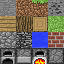
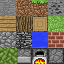
fixed trees, added tree textures

Changed region(s): [[0.0, 0.75, 0.2812, 1.0]]

diff --git a/Assets/Chunk.cs b/Assets/Chunk.cs
@@ -11,7 +11,7 @@ public class Chunk
     MeshFilter meshFilter;
     GameObject chunkObject;
     MeshCollider meshCollider;
-    int treeHeight;
+    int treeHeight = 0;
 
     int vertexIndex = 0;
     List<Vector3> vertices = new List<Vector3>();
@@ -19,7 +19,7 @@ public class Chunk
     List<Vector2> uvs = new List<Vector2>();
 
     public int[,,] blocksInChunk = new int[VoxelData.chunkWidth, VoxelData.chunkHeight, VoxelData.chunkWidth];
-
+    int randomNum;
     World world;
 
     private bool _isActive;
@@ -61,6 +61,7 @@ public class Chunk
     void AddBlocksToChunk()
     {
 
+        
         for (int y = 0; y < VoxelData.chunkHeight; y++)
         {
             for (int x = 0; x < VoxelData.chunkWidth; x++)
@@ -76,74 +77,111 @@ public class Chunk
             }
         }
 
-        for (int y = 1; y < VoxelData.chunkHeight-1; y++)
+        for (int y = 1; y < VoxelData.chunkHeight - world.maxTreeSize; y++)
         {
-            for (int x = 1; x < VoxelData.chunkWidth-1; x++)
+            for (int x = 1; x < VoxelData.chunkWidth - 1; x++)
             {
-                for (int z = 1; z < VoxelData.chunkWidth-1; z++)
+                for (int z = 1; z < VoxelData.chunkWidth - 1; z++)
                 {
-                    
-                    if (blocksInChunk[x, y, z] == 6)
-                    {
-                        for (int k = 0; k < 3; k++)
-                        {
-                            for (int j = 0; j < 3; j++)
-                            {
-                                for (int l = 0; l < 3; l++)
-                                {
-                                    if (isBlockInChunk(x+k, y+j, z+l))
-                                    {
-                                        blocksInChunk[x + k, y + j, z + l] = 7;
-                                    }
-                                    if (isBlockInChunk(x - k, y - j, z - l))
-                                    {
-                                        blocksInChunk[x - k, y - j, z - l] = 7;
-                                    }
-                                    if(isBlockInChunk(x+k, y-j, z - l))
-                                    {
-                                        blocksInChunk[x + k, y - j, z - l] = 7;
-                                    }
-                                    if (isBlockInChunk(x + k, y + j, z - l))
-                                    {
-                                        blocksInChunk[x + k, y + j, z - l] = 7;
-                                    }
-                                    if (isBlockInChunk(x - k, y + j, z - l))
-                                    {
-                                        blocksInChunk[x - k, y + j, z - l] = 7;
-                                    }
-                                    if (isBlockInChunk(x - k, y - j, z + l))
-                                    {
-                                        blocksInChunk[x - k, y - j, z + l] = 7;
-                                    }
-                                    if (isBlockInChunk(x - k, y + j, z + l))
-                                    {
-                                        blocksInChunk[x - k, y + j, z + l] = 7;
-                                    }
-                                    if (isBlockInChunk(x + k, y - j, z + l))
-                                    {
-                                        blocksInChunk[x + k, y - j, z + l] = 7;
-                                    }
 
+                    if (blocksInChunk[x, y, z] == 6 && blocksInChunk[x,y+1,z] == 0)
+                    {
+
+                        randomNum = Random.Range(world.minTreeSize, world.maxTreeSize);
+                        if (treeHeight <= randomNum)
+                        {
+                            for (int i = 0; i < randomNum; i++)
+                            {
+                                if (blocksInChunk[x, y + i, z] == 0)
+                                {
+                                    blocksInChunk[x, y + i, z] = 6;
+                                }
+                                treeHeight++;
+                                
+                            }
+                            
+                        }
+                        
+
+                        if(blocksInChunk[x, y, z] == 6 && blocksInChunk[x,y-5,z] == 6 || blocksInChunk[x, y - 5, z] == 7)
+                        {
+                            int leafNum1 = Random.Range(2, 4);
+                            int leafNum2 = Random.Range(2, 4);
+                            int leafNum3 = Random.Range(2, 4);
+                            for (int k = 0; k < leafNum1; k++)
+                            {
+                                for (int j = 0; j < leafNum2; j++)
+                                {
+                                    for (int l = 0; l < leafNum3; l++)
+                                    {
+                                        if (isBlockInChunk(x + k, y + j, z + l))
+                                        {
+                                            blocksInChunk[x + k, y + j, z + l] = 7;
+                                        }
+                                        if (isBlockInChunk(x - k, y - j, z - l))
+                                        {
+                                            blocksInChunk[x - k, y - j, z - l] = 7;
+                                        }
+                                        if (isBlockInChunk(x + k, y - j, z - l))
+                                        {
+                                            blocksInChunk[x + k, y - j, z - l] = 7;
+                                        }
+                                        if (isBlockInChunk(x + k, y + j, z - l))
+                                        {
+                                            blocksInChunk[x + k, y + j, z - l] = 7;
+                                        }
+                                        if (isBlockInChunk(x - k, y + j, z - l))
+                                        {
+                                            blocksInChunk[x - k, y + j, z - l] = 7;
+                                        }
+                                        if (isBlockInChunk(x - k, y - j, z + l))
+                                        {
+                                            blocksInChunk[x - k, y - j, z + l] = 7;
+                                        }
+                                        if (isBlockInChunk(x - k, y + j, z + l))
+                                        {
+                                            blocksInChunk[x - k, y + j, z + l] = 7;
+                                        }
+                                        if (isBlockInChunk(x + k, y - j, z + l))
+                                        {
+                                            blocksInChunk[x + k, y - j, z + l] = 7;
+                                        }
+
+                                    }
                                 }
                             }
                         }
 
-                        for (int i = 0; i < world.maxTreeSize; i++)
-                        {
-                            if (blocksInChunk[x, y - i, z] == 0)
-                            {
-                                blocksInChunk[x, y - i, z] = 6;
-                            }
 
-                        }
+
+
+
 
 
                     }
                 }
             }
         }
+        treeHeight = 0;
 
-        
+        for (int y = 0; y < VoxelData.chunkHeight; y++)
+        {
+            for (int x = 0; x < VoxelData.chunkWidth; x++)
+            {
+                for (int z = 0; z < VoxelData.chunkWidth; z++)
+                {
+                    if (blocksInChunk[x, y, z] == 6)
+                    {
+                        if (blocksInChunk[x, y + 1, z] == 0)
+                        {
+                            blocksInChunk[x, y, z] = 0;
+                        }
+                    }
+                }
+            }
+        }
+
+
         areBlocksInChunk = true;
     }
 

diff --git a/Assets/World.cs b/Assets/World.cs
@@ -13,6 +13,7 @@ public class World : MonoBehaviour
     public float offset = 0;
     public float maxNoiseHeight = 24;
     public float minNoiseHeight = 24;
+    public int treeDensity = 20;
     public int maxTreeSize = 7;
     public int minTreeSize = 4;
     int noiseHeight;
@@ -21,7 +22,7 @@ public class World : MonoBehaviour
     public float caveScale;
     public float caveOffset;
     public float caveThreshold;
-    int randomNum = 0;
+    public int randomNum = 0;
     List<Vector3> treeCentre;
     Vector3 spawnPos;
     Chunk[,] chunks = new Chunk[VoxelData.WorldSizeInChunks, VoxelData.WorldSizeInChunks];
@@ -38,7 +39,9 @@ public class World : MonoBehaviour
     {
         Random.InitState(seed);
 
-        spawnPos = new Vector3(VoxelData.WorldSizeInChunks / 2, VoxelData.chunkHeight, VoxelData.WorldSizeInChunks / 2);
+        Vector3 spawnPos = new Vector3((VoxelData.WorldSizeInChunks / 2) * 16, 200, (VoxelData.WorldSizeInChunks / 2) * 16);
+        player.transform.position = spawnPos;
+        
         GenerateWorld();
         lastVisitedChunk = getChunkCoordVector3(player.position);
 
@@ -70,7 +73,6 @@ public class World : MonoBehaviour
                 activeChunks.Add(new ChunkCoord(x, z));
             }
         }
-        SpawnPlayer();
     }
 
     IEnumerator CreateChunks()
@@ -85,10 +87,6 @@ public class World : MonoBehaviour
         creatingChunks = false;
     }
 
-    void SpawnPlayer()
-    {
-        player.position = spawnPos;
-    }
 
     ChunkCoord getChunkCoordVector3(Vector3 pos)
     {
@@ -190,6 +188,9 @@ public class World : MonoBehaviour
         
         randomNum = Random.Range(0, 1000);
         int yPos = Mathf.FloorToInt(pos.y);
+        int xPos = Mathf.FloorToInt(pos.x);
+        int zPos = Mathf.FloorToInt(pos.z);
+
         if (!IsVoxelInWorld(pos))
         {
             return 0;
@@ -254,12 +255,13 @@ public class World : MonoBehaviour
             }
         }
 
-        if(value != 5) 
+        //trees
+
+        if (value != 5) 
         {
-            if (randomNum < 2)
+            if (randomNum < treeDensity)
             {
-                randomNum = Random.Range(minTreeSize, maxTreeSize);
-                if (yPos == noiseHeight +randomNum)
+                if (yPos == noiseHeight + 1)
                 {
                     value = 6;
                 }

diff --git a/Assets/VoxelData.cs b/Assets/VoxelData.cs
@@ -7,7 +7,7 @@ public static class VoxelData
 
     public static readonly int chunkWidth = 16;
     public static readonly int chunkHeight = 128;
-    public static readonly int WorldSizeInChunks = 20;
+    public static readonly int WorldSizeInChunks = 100;
     public static readonly int ViewDistanceChunks = 7;
 
     
